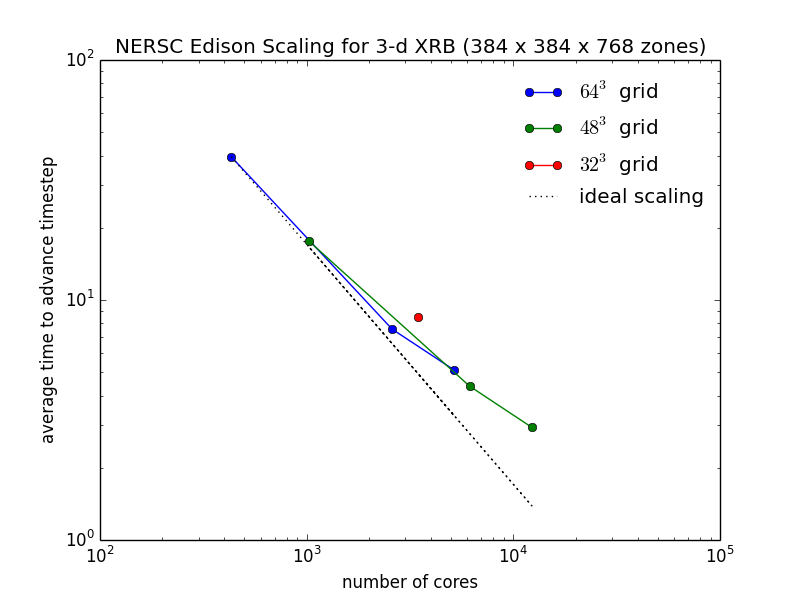
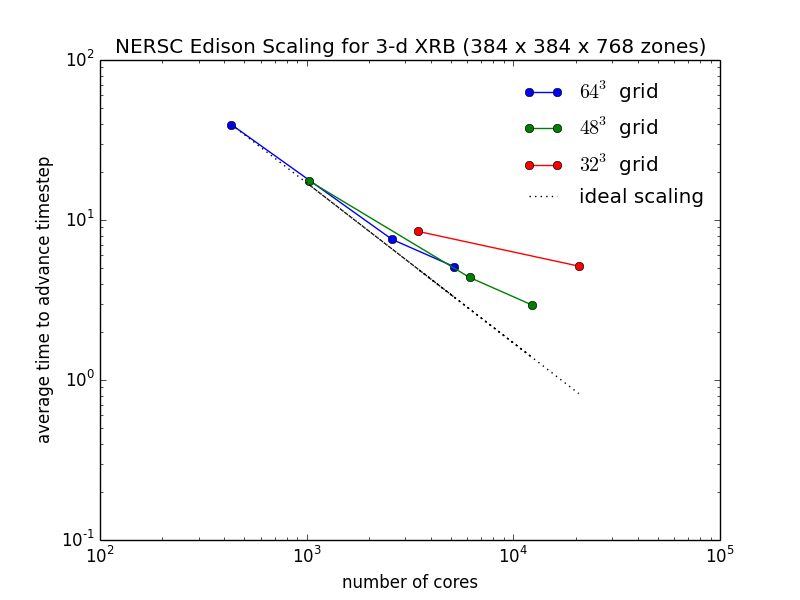
32^3 6 threads run

diff --git a/Docs/managing_jobs/scaling/xrb/xrb-3d-edison-20140425/scaling.py b/Docs/managing_jobs/scaling/xrb/xrb-3d-edison-20140425/scaling.py
@@ -28,8 +28,8 @@ def scaling():
     idx_omp12 = N_omp[:] == 12
 
     pylab.loglog(cores[idx_omp1], t_total[idx_omp1], "o-", label="pure MPI")
-    pylab.loglog(cores[idx_omp6], t_total[idx_omp6], "^-", label="MPI + 6 OpenMP threads")
-    pylab.loglog(cores[idx_omp12], t_total[idx_omp12], "x-", label="MPI + 12 OpenMP threads")
+    pylab.loglog(cores[idx_omp6], t_total[idx_omp6], "o-", label="MPI + 6 OpenMP threads")
+    pylab.loglog(cores[idx_omp12], t_total[idx_omp12], "o-", label="MPI + 12 OpenMP threads")
 
     # ideal
     pylab.loglog(cores, t_total[0]*cores[0]/cores, ":", color="k", label="ideal scaling")
